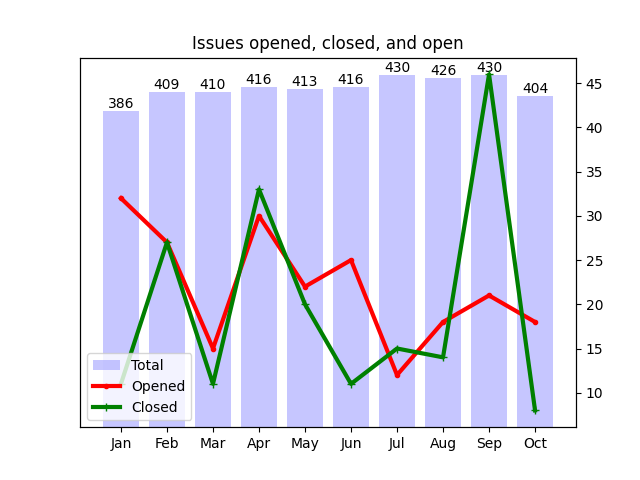
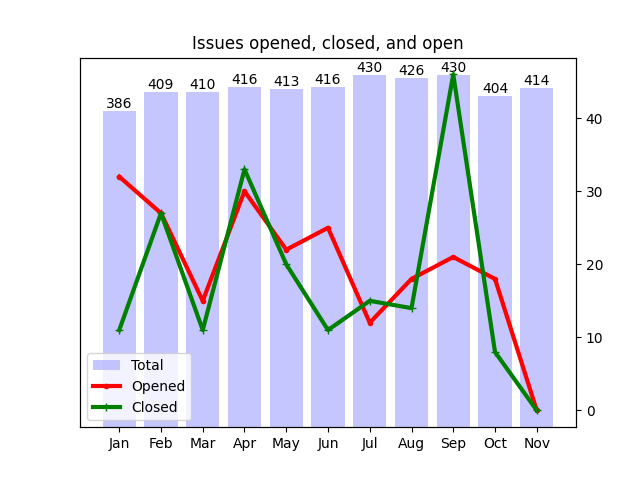
Apply automatic changes

diff --git a/docs/analytics.html b/docs/analytics.html
@@ -117,6 +117,11 @@ td .material-icons { display:inline-flex; vertical-align: top; font-size:1.1rem;
 							<td>18</td>
 							<td>8</td>
 						</tr>
+						<tr>
+							<td>Nov</td>
+							<td>0</td>
+							<td>0</td>
+						</tr>
 					</table>
 				</div>
 				<div class="col">
